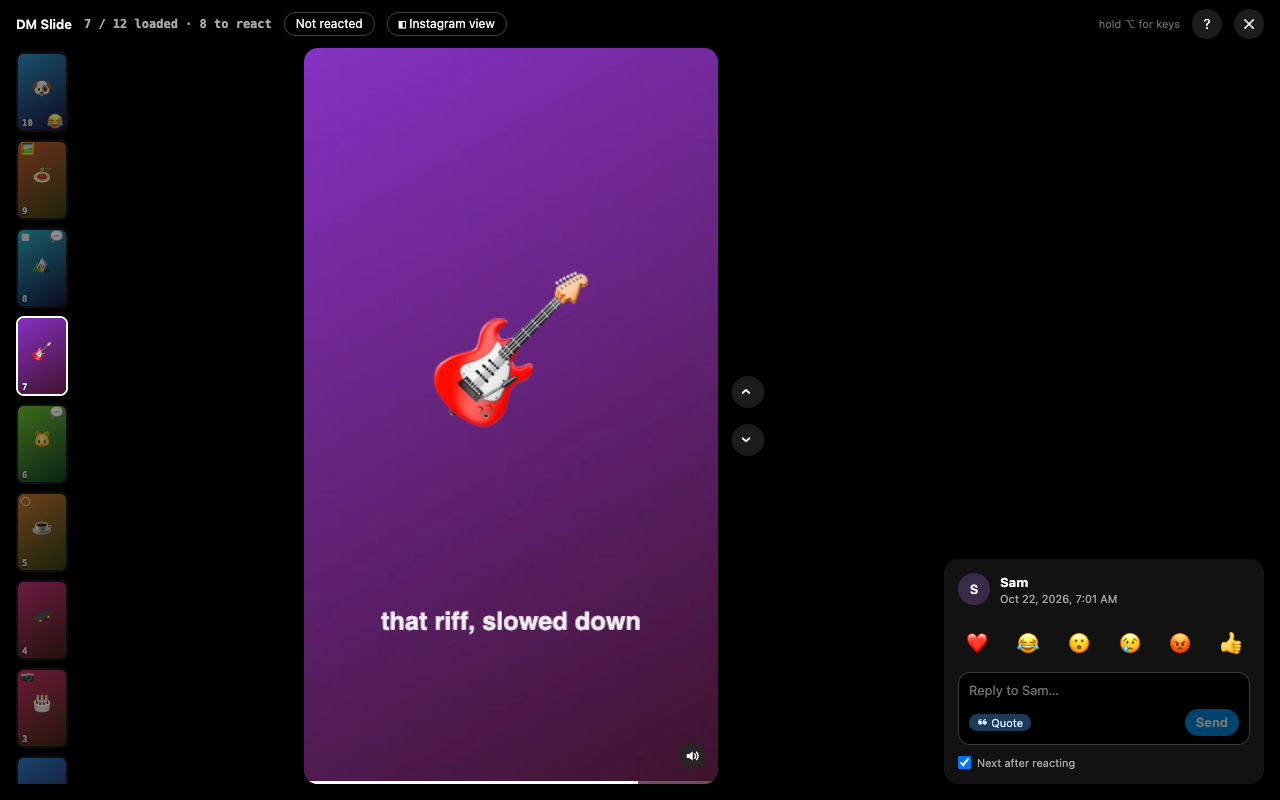
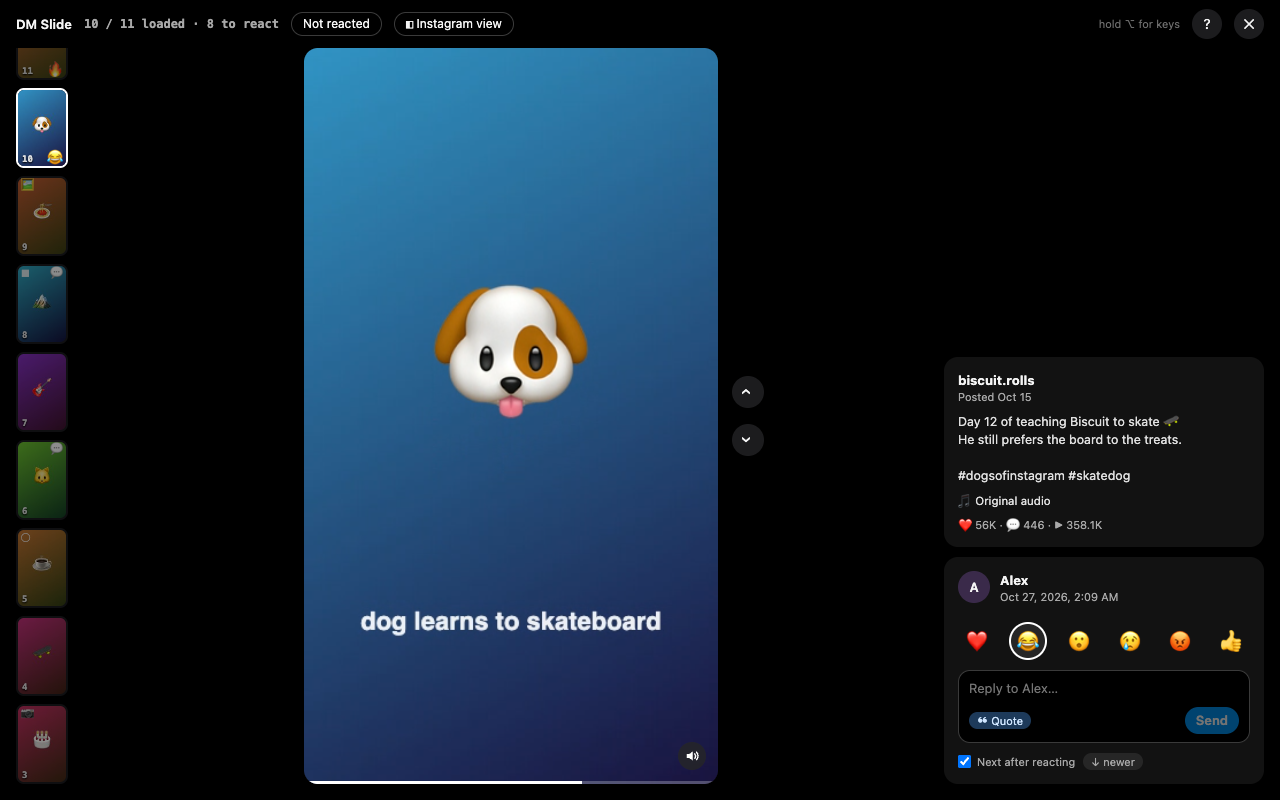
feat [S05 #04]: give the demo's posts invented captions and retake the player screenshot

diff --git a/demo/demo.ts b/demo/demo.ts
@@ -1,5 +1,5 @@
 // The real player over a fake thread: generated media, invented people, no network. Never ships.
-import type { Item, Media, Slide, ThreadAdapter } from '../src/instagram/adapter';
+import type { Item, Media, Post, Slide, ThreadAdapter } from '../src/instagram/adapter';
 import { createButton, renderButton } from '../src/content/button';
 import { openNotice, openPlayer, startIndex, type Player } from '../src/player/overlay';
 
@@ -16,11 +16,33 @@ interface Share {
   notes?: string[];
   replies?: string[];
   reaction?: string;
+  post?: Partial<Post>; // what the shared post says about itself; a one-photo post has its date only
 }
 
+const DAY = 864e5;
+
 const SHARES: Share[] = [
-  { kind: 'reel', sender: 'Alex', scenes: [{ emoji: '🐶', caption: 'dog learns to skateboard', hue: 200 }], reaction: '😂' },
-  { kind: 'post', sender: 'Sam', scenes: [{ emoji: '🍝', caption: 'pasta in 60 seconds', hue: 18 }], replies: ['making this tonight'] },
+  {
+    kind: 'reel',
+    sender: 'Alex',
+    scenes: [{ emoji: '🐶', caption: 'dog learns to skateboard', hue: 200 }],
+    reaction: '😂',
+    post: {
+      author: 'biscuit.rolls',
+      caption: 'Day 12 of teaching Biscuit to skate 🛹\nHe still prefers the board to the treats.\n\n#dogsofinstagram #skatedog',
+      postedMs: Date.now() - 12 * DAY,
+      likes: 56023,
+      comments: 446,
+      views: 358120,
+    },
+  },
+  {
+    kind: 'post',
+    sender: 'Sam',
+    scenes: [{ emoji: '🍝', caption: 'pasta in 60 seconds', hue: 18 }],
+    replies: ['making this tonight'],
+    post: { postedMs: Date.now() - 400 * DAY },
+  },
   {
     kind: 'carousel',
     sender: 'Alex',
@@ -31,8 +53,23 @@ const SHARES: Share[] = [
       { emoji: '🌅', caption: 'last night', hue: 12 },
     ],
     notes: ['the third one is us 😅', 'we should go back in spring'],
+    post: { author: 'trail.notes', caption: 'Four days, three lakes, one very cold night ⛺', postedMs: Date.now() - 40 * DAY, likes: 1240, comments: 38 },
   },
-  { kind: 'reel', sender: 'Sam', scenes: [{ emoji: '🎸', caption: 'that riff, slowed down', hue: 275 }] },
+  {
+    kind: 'reel',
+    sender: 'Sam',
+    scenes: [{ emoji: '🎸', caption: 'that riff, slowed down', hue: 275 }],
+    post: {
+      author: 'slowriffs',
+      verified: true,
+      caption: 'That riff, at half speed. Tabs on request 🎸',
+      postedMs: Date.now() - 3 * DAY,
+      likes: 8912,
+      comments: 211,
+      views: 120400,
+      music: { artist: 'Hollow Pines', song: 'Late Bloom' },
+    },
+  },
   { kind: 'reel', sender: 'Alex', scenes: [{ emoji: '🐱', caption: 'cat vs cucumber', hue: 95 }], notes: ['watch till the end'] },
   { kind: 'story', sender: 'Sam', scenes: [{ emoji: '☕', caption: 'monday mood', hue: 28 }] },
   { kind: 'reel', sender: 'Alex', scenes: [{ emoji: '🛹', caption: 'how is this even possible', hue: 330 }] },
@@ -181,7 +218,10 @@ const adapter: ThreadAdapter = {
       const slides: Slide[] = scenes.map((s) => ({ type: 'photo', url: still(s, 540, 675) }));
       return slides.length > 1 ? { type: 'slides', slides } : slides[0];
     }, item.id),
-  post: () => null,
+  post(item) {
+    const post = shareOf.get(item.id)!.post;
+    return post ? { author: null, verified: false, caption: null, postedMs: null, likes: null, comments: null, views: null, music: null, ...post } : null;
+  },
   // ?pushback=1 stands in for Instagram refusing a read, a moment after the player opens.
   onPause(listener) {
     const timer = q.get('pushback') === '1' ? setTimeout(() => listener('demo'), DELAY * 5) : undefined;

diff --git a/specs/05-post-caption/tasks.md b/specs/05-post-caption/tasks.md
@@ -1,6 +1,6 @@
 # Tasks — S05
 
-**3 of 7 done · next: 04**
+**4 of 7 done · next: 05**
 
 The first build's six tasks read the private API. Their code stays on the branch `05-post-caption`
 for reference only and is not merged. The list below starts over from the embed page.
@@ -8,7 +8,7 @@ for reference only and is not merged. The list below starts over from the embed 
 - [x] **01 — spec back on main: rewritten for the embed source, live findings in learnings.md**
 - [x] **02 — media: each embed read keeps the post's facts from its `contextJSON` (reel iframe, carousel fetch), even with no video; `post(item)` adds the date decoded from the shortcode; no new request**
 - [x] **03 — player: the post card above the reactions, ported from the branch onto today's overlay; late answers dropped; hidden when squeezed**
-- [ ] **04 — demo: invented post data on a few items; screenshot 01 retaken with the card**
+- [x] **04 — demo: invented post data on a few items; screenshot 01 retaken with the card**
 - [ ] **05 — `PRIVACY.md` and `store/listing.md`: caption, author and public counts read from the embed page, never stored or sent**
 - [ ] **06 — owner: hand check on the real Instagram (a reel, a carousel, a photo; quick moves; reads per item unchanged)**
 - [ ] **07 — self-review, close learnings.md and promote**

diff --git a/specs/05-post-caption/session.md b/specs/05-post-caption/session.md
@@ -3,7 +3,7 @@
 ## Status: IN-PROGRESS · 2026-10-27 · brought back on the embed page as its source
 
 ## Next
-04 — demo: invented post data; screenshot 01 retaken.
+05 — PRIVACY.md and store/listing.md.
 
 **Source branch:** main · **Working branch:** main
 **Repo(s):** dm-slide · **PR:** none (solo)
@@ -12,7 +12,7 @@
 - None.
 
 ## Tasks status
-3 of 7. See tasks.md.
+4 of 7. See tasks.md.
 
 ## What was done
 - 2026-10-22: the owner asked to fill the right column's empty space with the post's caption and,
@@ -28,6 +28,10 @@
 - 2026-10-27: 03 done. `.p-post` above the panel; `Stage.show` now says when the item's media read
   settled, and only then the overlay asks `post(item)`; a later move drops the answer. The card
   hides when the panel leaves under 72 px above it (hidden from a 370 px tall window in the demo).
+- 2026-10-27: 04 done. Four demo items carry post data (a reel, a one-photo post with its date only,
+  a carousel, a verified reel with music). Checked in the demo by a subagent: each card's text, line
+  breaks, no card on the rest, quick moves never show another item's card, no console errors.
+  Screenshot 01 retaken on the reel with its card.
 
 ## Inputs ingested
 

diff --git a/README.md b/README.md
@@ -4,7 +4,7 @@ A Chrome extension that plays everything sent to watch in an Instagram DM conver
 posts, carousels, stories and gallery photos or videos — one after another, so you can watch, react
 and reply on one screen, without the back-and-forth.
 
-![The player on a reel: the strip of items on the left, the video in the middle, who sent it, the reactions and the reply box on the right](docs/screenshots/01-player.png)
+![The player on a reel: the strip of items on the left, the video in the middle, the post's caption and counts above who sent it, the reactions and the reply box on the right](docs/screenshots/01-player.png)
 
 *Screenshots come from the demo page: invented people and generated media.*
 
